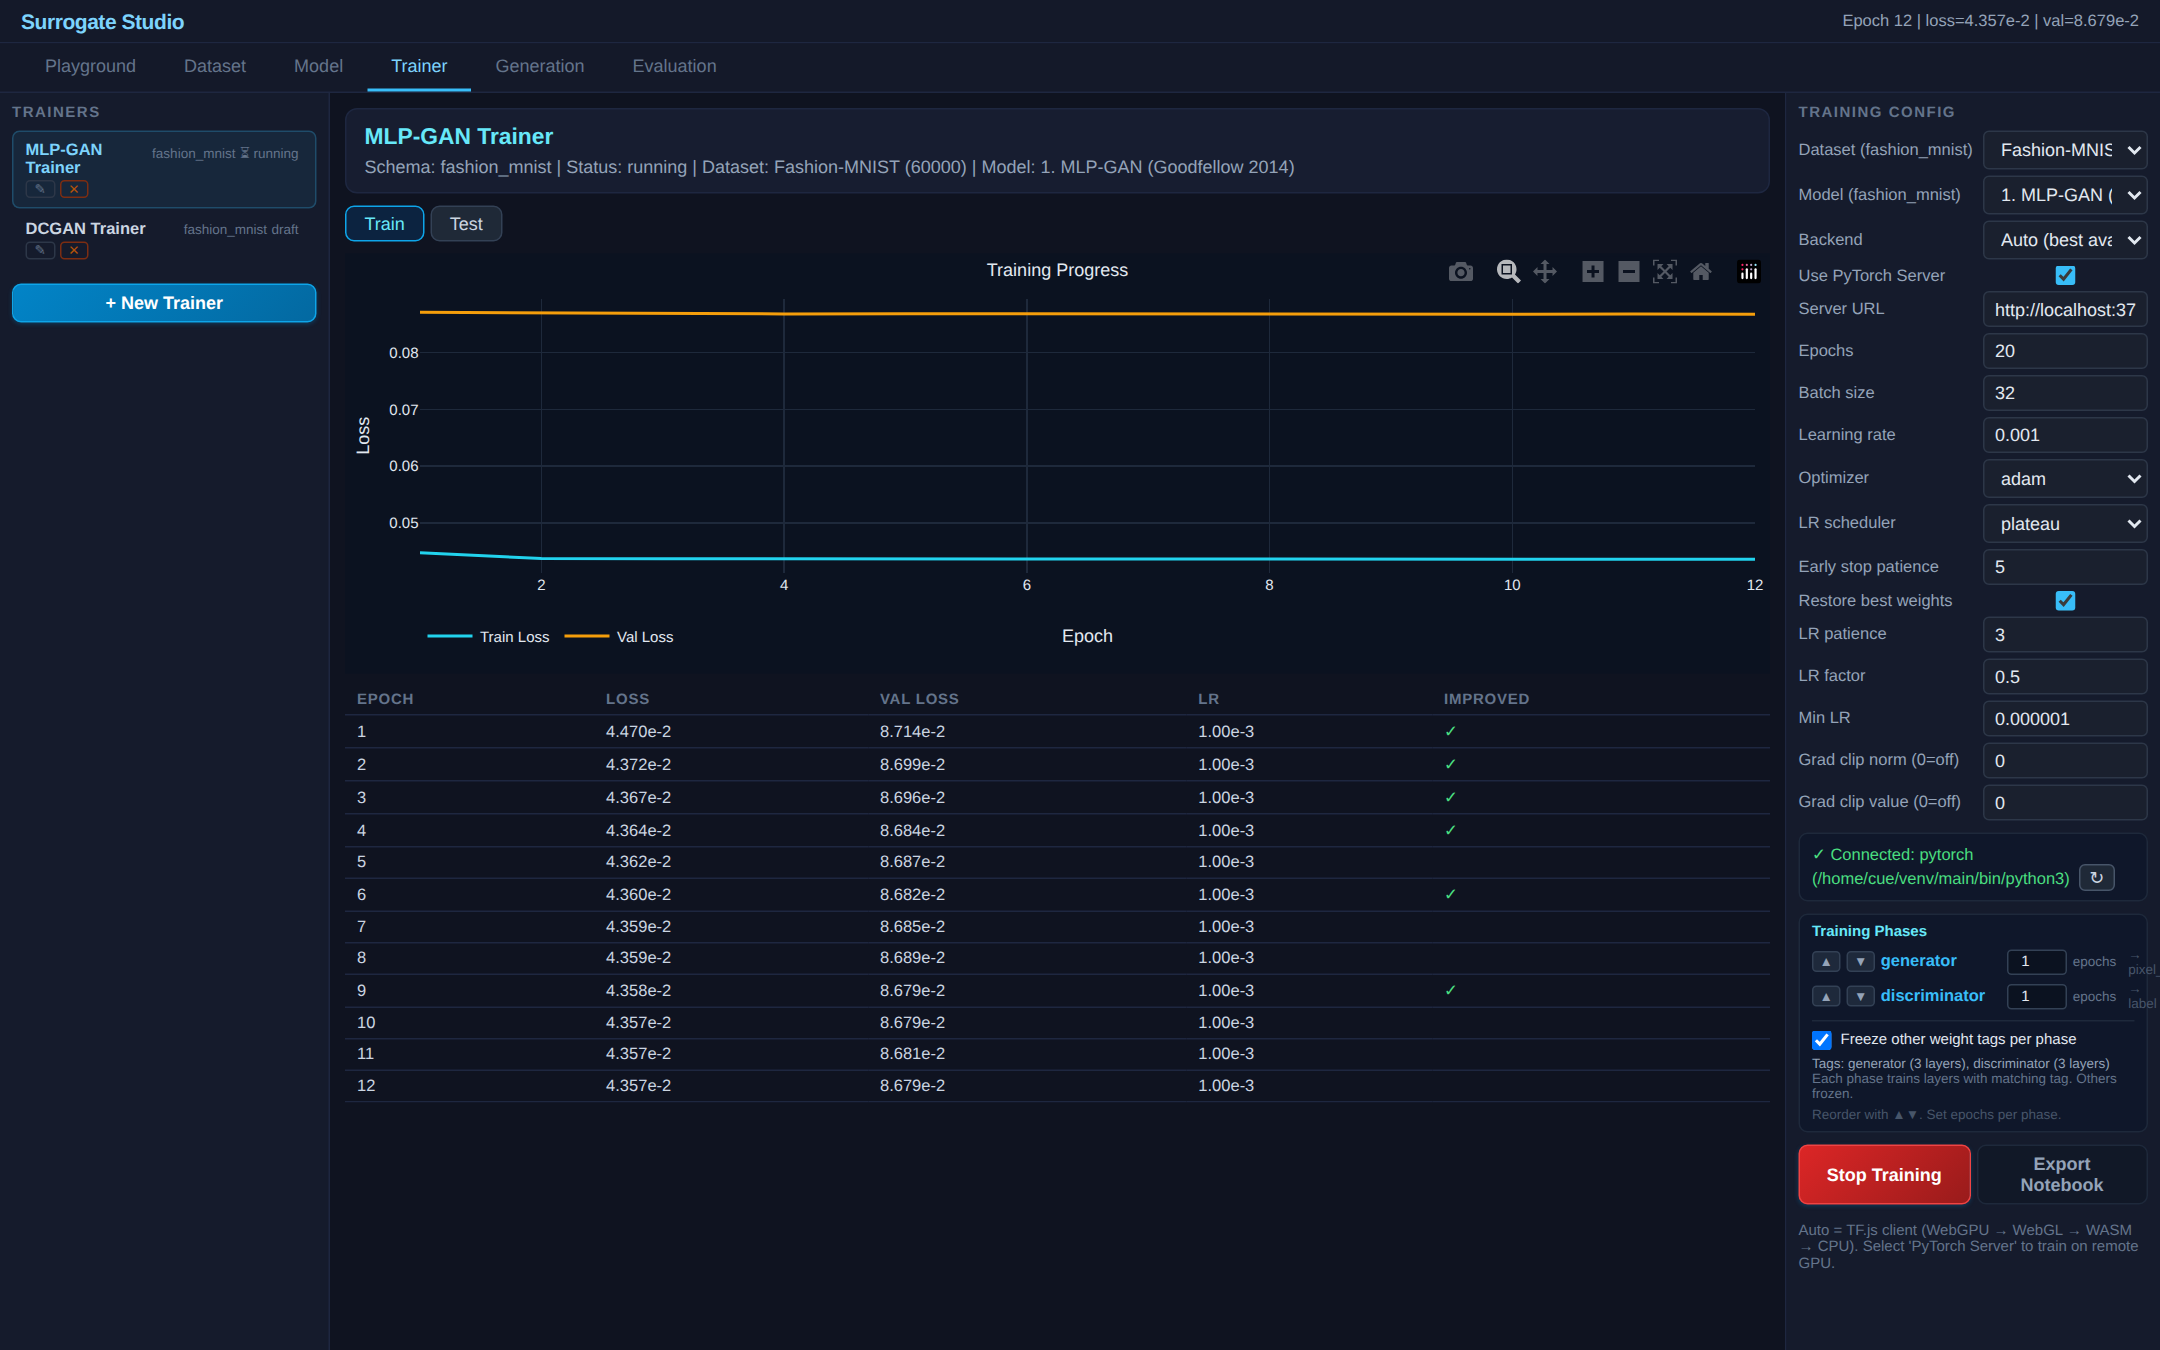
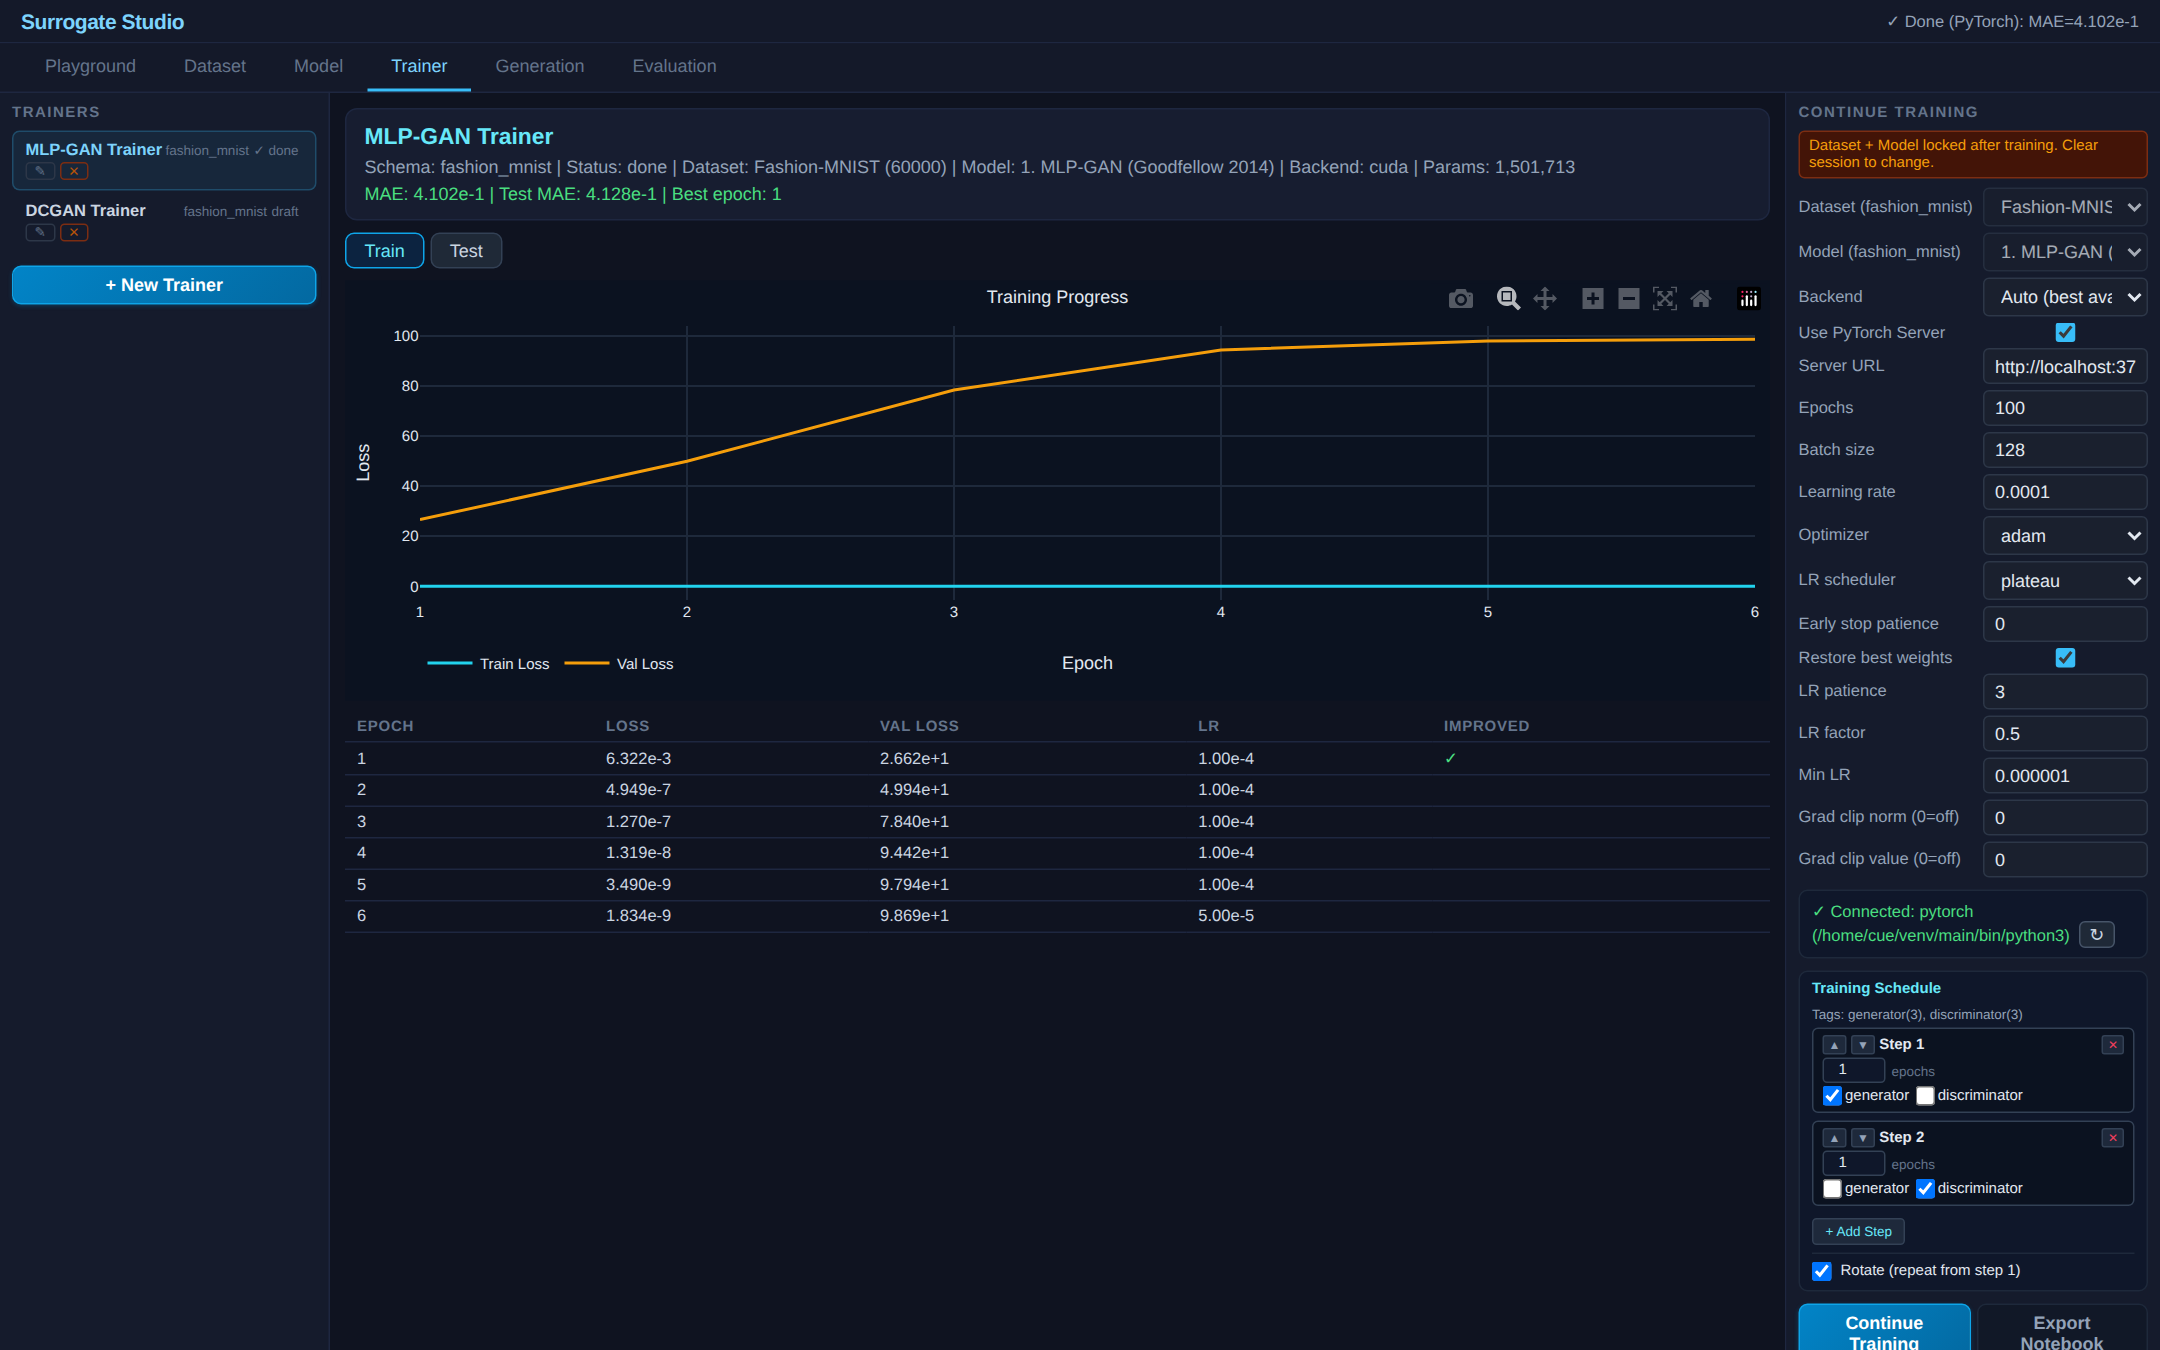
Fix early stop, val loss, generation for GAN
1. Early stopping disabled when no val set (earlyStoppingPatience auto=0)
2. earlyStoppingPatience=0 no longer treated as falsy (!=null check)
3. Generation accepts any trainer with modelArtifacts (not just status=done)
4. GAN preset: 100 epochs, earlyStoppingPatience=0, LR=0.0001

diff --git a/src/tabs/trainer_tab.js b/src/tabs/trainer_tab.js
@@ -1425,7 +1425,7 @@
           epochs: Number(config.epochs || 20), batchSize: Number(config.batchSize || 32),
           learningRate: Number(config.learningRate || 0.001), optimizerType: String(config.optimizerType || "adam"),
           lrSchedulerType: String(config.lrSchedulerType || "plateau"),
-          earlyStoppingPatience: Number(config.earlyStoppingPatience || 5),
+          earlyStoppingPatience: config.earlyStoppingPatience != null ? Number(config.earlyStoppingPatience) : 5,
           restoreBestWeights: config.restoreBestWeights !== false,
           gradClipNorm: Number(config.gradClipNorm || 0),
           onEpochData: function (payload) {
@@ -1537,7 +1537,7 @@
             optimizerType: String(config.optimizerType || "adam"),
             lrSchedulerType: String(config.lrSchedulerType || "plateau"),
             useLrScheduler: String(config.lrSchedulerType || "plateau") !== "none",
-            earlyStoppingPatience: Number(config.earlyStoppingPatience || 5),
+            earlyStoppingPatience: config.earlyStoppingPatience != null ? Number(config.earlyStoppingPatience) : 5,
             restoreBestWeights: config.restoreBestWeights !== false,
             lrPatience: Number(config.lrPatience || 3),
             lrFactor: Number(config.lrFactor || 0.5),
@@ -1608,7 +1608,7 @@
           learningRate: Number(config.learningRate || 0.001),
           optimizerType: String(config.optimizerType || "adam"),
           lrSchedulerType: String(config.lrSchedulerType || "plateau"),
-          earlyStoppingPatience: Number(config.earlyStoppingPatience || 5),
+          earlyStoppingPatience: config.earlyStoppingPatience != null ? Number(config.earlyStoppingPatience) : 5,
           restoreBestWeights: config.restoreBestWeights !== false,
           lrPatience: Number(config.lrPatience || 3),
           lrFactor: Number(config.lrFactor || 0.5),

diff --git a/demo/Fashion-MNIST-GAN/preset.js b/demo/Fashion-MNIST-GAN/preset.js
@@ -129,13 +129,13 @@
     ],
     trainers: [
       { id: "t-mlp-gan", name: "MLP-GAN Trainer", schemaId: sid, datasetId: DS, modelId: "m-mlp-gan", status: "draft",
-        config: { epochs: 50, batchSize: 128, learningRate: 0.0001, optimizerType: "adam", useServer: true,
+        config: { epochs: 100, batchSize: 128, learningRate: 0.0001, optimizerType: "adam", useServer: true, earlyStoppingPatience: 0,
                   trainingSchedule: [
                     { epochs: 1, trainableTags: { discriminator: true, generator: false } },
                     { epochs: 1, trainableTags: { discriminator: false, generator: true } }
                   ], rotateSchedule: true } },
       { id: "t-dcgan", name: "DCGAN Trainer", schemaId: sid, datasetId: DS, modelId: "m-dcgan", status: "draft",
-        config: { epochs: 50, batchSize: 128, learningRate: 0.0001, optimizerType: "adam", useServer: true,
+        config: { epochs: 100, batchSize: 128, learningRate: 0.0001, optimizerType: "adam", useServer: true, earlyStoppingPatience: 0,
                   trainingSchedule: [
                     { epochs: 1, trainableTags: { discriminator: true, generator: false } },
                     { epochs: 1, trainableTags: { discriminator: false, generator: true } }

diff --git a/src/tabs/generation_tab.js b/src/tabs/generation_tab.js
@@ -353,7 +353,7 @@
 
       // check if selected trainer is ready
       var selectedTrainer = g.trainerId ? (store ? store.getTrainerCard(g.trainerId) : null) : null;
-      var isReady = selectedTrainer && selectedTrainer.status === "done" && selectedTrainer.modelArtifacts;
+      var isReady = selectedTrainer && selectedTrainer.modelArtifacts;
 
       if (g.trainerId && !isReady) {
         var statusMsg = !selectedTrainer ? "Trainer not found" : selectedTrainer.status === "training" ? "Model is still training..." : "Model not trained yet. Train it first in the Trainer tab.";
@@ -391,7 +391,7 @@
       // if referenced trainer not trained, auto-find first trained model for this schema
       if (!trainer || !trainer.modelArtifacts) {
         var allTrainers = _listTrainersForSchema(g.schemaId);
-        var trained = allTrainers.filter(function (t) { return t.status === "done" && t.modelArtifacts; });
+        var trained = allTrainers.filter(function (t) { return t.modelArtifacts; });
         if (trained.length) {
           trainer = trained[0];
           g.trainerId = trainer.id;

diff --git a/server/train_subprocess.py b/server/train_subprocess.py
@@ -98,6 +98,9 @@ def main():
     lr = float(config.get("learningRate", 1e-3))
     optimizer_type = config.get("optimizerType", "adam")
     patience = int(config.get("earlyStoppingPatience", 5))
+    # disable early stopping when no val set (GAN etc.)
+    if x_val.size == 0 and patience > 0 and config.get("earlyStoppingPatience") is None:
+        patience = 0
     grad_clip = float(config.get("gradClipNorm", 0))
 
     # --- Optimizer ---
